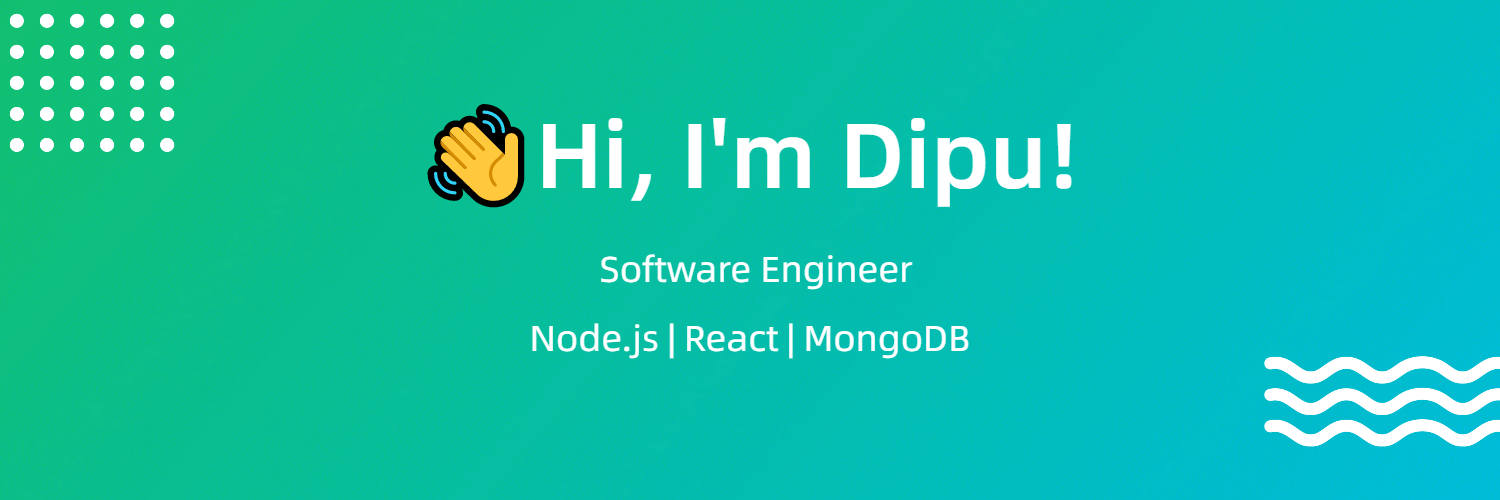
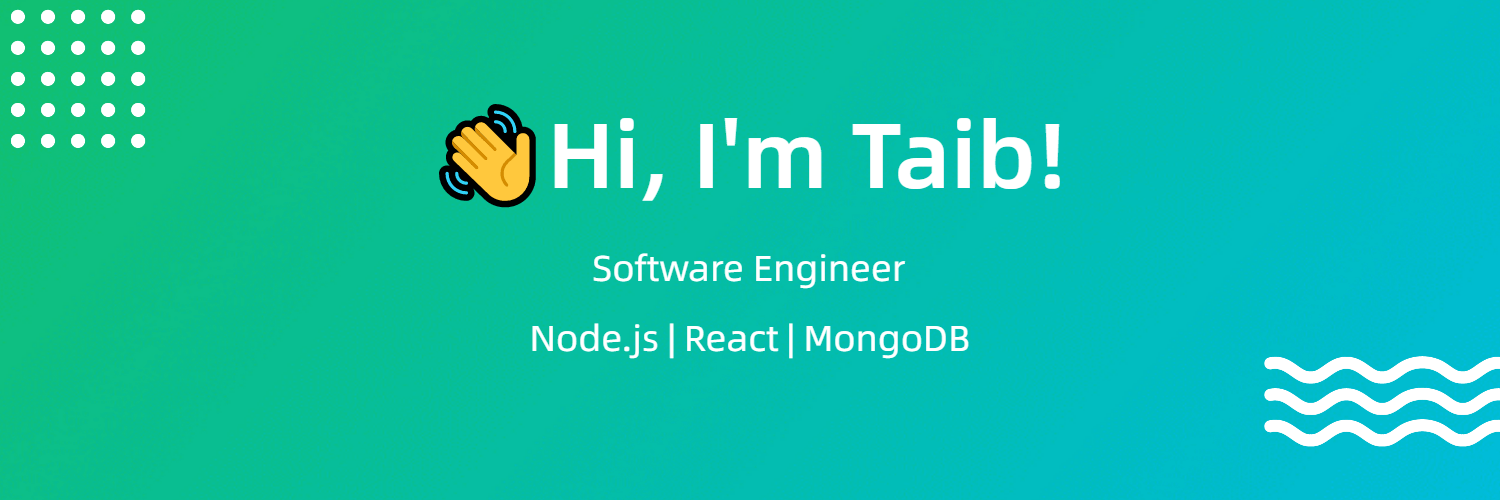
Updated Image.

diff --git a/README.md b/README.md
@@ -1,5 +1,3 @@
-<!-- [![Header](https://i.ibb.co/wg9NfJS/github-profile-header.jpg)](#) -->
-
 ![Header](https://raw.githubusercontent.com/taibislamdipu/taibislamdipu/main/assets/github-profile-header.png)
 
 <p align="center">(Open for Hiring)</p>
